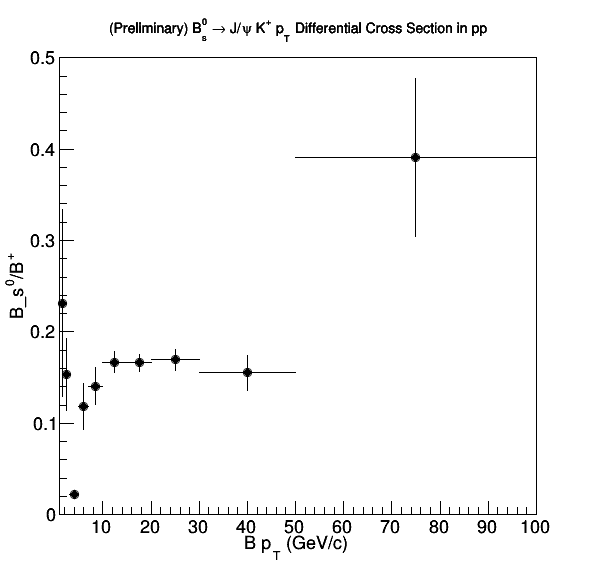
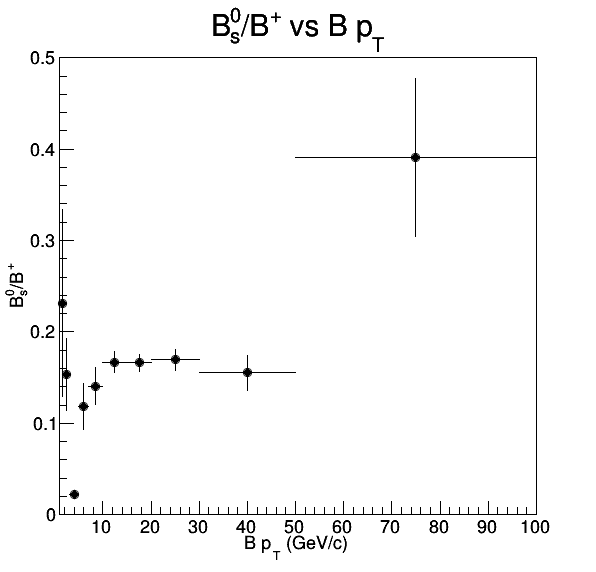
Updated with BsBP Fixed

Changed region(s): [[0.1812, 0.0, 0.8154, 0.0892], [0.0, 0.4458, 0.0604, 0.5647]]

diff --git a/BsBP/BsBP.C b/BsBP/BsBP.C
@@ -46,7 +46,9 @@ void BsBP(){
 	TH1D * BsBPRatio =  (TH1D * ) BsCross->Clone("BsBPRatio");
 
 	BsBPRatio->GetXaxis()->SetTitle("B p_{T} (GeV/c)");
-	BsBPRatio->GetYaxis()->SetTitle("B_s^{0}/B^{+}");
+	BsBPRatio->GetYaxis()->SetTitle("B_{s}^{0}/B^{+}");
+	BsBPRatio->SetTitle("B_{s}^{0}/B^{+} vs B p_{T}");
+
 	BsBPRatio->SetMarkerStyle(20);
 	BsBPRatio->SetMarkerSize(1);
 	BsBPRatio->SetMarkerColor(kBlack);
